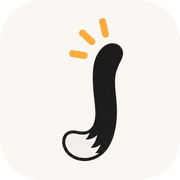
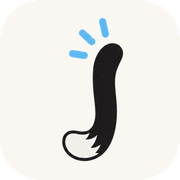
Edição direta nas células e faixa dos projetos em amarelo
- Clique na célula para editar tarefa, observação, prioridade, prazo,
  lembrete e responsável direto na tabela
- Enter ou clicar fora salva; Esc cancela; Shift+Enter quebra linha na observação
- Tarefas de projetos "só visualização" não ficam editáveis
- Atualização automática espera a edição terminar
- Faixa dos projetos no amarelo da marca, com texto e ícones em preto

Changed region(s): [[0.5278, 0.0833, 0.6111, 0.2222], [0.4167, 0.1389, 0.5556, 0.25], [0.3611, 0.2778, 0.5, 0.3333]]

diff --git a/styles.css b/styles.css
@@ -1,7 +1,7 @@
 :root {
-  /* cores da marca: preto do logo, laranja dos traços, creme da ponta da cauda */
+  /* cores da marca: preto do logo, azul claro dos traços, creme da ponta da cauda */
   --brand-ink: #1a1819;
-  --brand-orange: #fbaa3c;
+  --brand-blue: #5bb8f5;
   --brand-cream: #faf7f3;
 
   --bg: var(--brand-cream);
@@ -9,10 +9,10 @@
   --text: var(--brand-ink);
   --muted: #6e6966;
   --border: #ebe5dd;
-  --accent: var(--brand-orange);
-  --accent-hover: #f29a1f;
+  --accent: var(--brand-blue);
+  --accent-hover: #3fa6ec;
   --accent-text: var(--brand-ink);
-  --accent-ink: #9a5b00;      /* laranja escuro: texto laranja legível no fundo claro */
+  --accent-ink: #1667a3;      /* azul escuro: texto azul legível no fundo claro */
   --done-bg: #e8f5ec;
   --done-text: #1f7a3d;
   --late-bg: #fdecec;
@@ -32,10 +32,10 @@
     --text: #f0ece6;
     --muted: #a39d97;
     --border: #33302f;
-    --accent: var(--brand-orange);
-    --accent-hover: #fcb85a;
+    --accent: var(--brand-blue);
+    --accent-hover: #82c9f7;
     --accent-text: var(--brand-ink);
-    --accent-ink: var(--brand-orange);
+    --accent-ink: var(--brand-blue);
     --done-bg: #16291d;
     --done-text: #6ee79a;
     --late-bg: #301a1a;
@@ -53,10 +53,10 @@
   --text: #f0ece6;
   --muted: #a39d97;
   --border: #33302f;
-  --accent: var(--brand-orange);
-  --accent-hover: #fcb85a;
+  --accent: var(--brand-blue);
+  --accent-hover: #82c9f7;
   --accent-text: var(--brand-ink);
-  --accent-ink: var(--brand-orange);
+  --accent-ink: var(--brand-blue);
   --done-bg: #16291d;
   --done-text: #6ee79a;
   --late-bg: #301a1a;
@@ -264,14 +264,15 @@ tr.paused td.actions { opacity: 1; }
 .actions { text-align: right; white-space: nowrap; }
 
 /* faixa do projeto */
-/* faixa do projeto no amarelo da marca; texto e ícones no preto da marca (legíveis nos dois temas) */
-tr.proj-row td { background: var(--brand-orange); color: var(--brand-ink); padding: 6px 10px; }
-tbody tr.proj-row:hover td { background: var(--brand-orange); }
+/* faixa do projeto: fundo levemente azulado + borda azul à esquerda (discreto nos dois temas) */
+tr.proj-row td { background: color-mix(in srgb, var(--brand-blue) 12%, var(--surface)); color: var(--text); padding: 6px 10px; }
+tbody tr.proj-row:hover td { background: color-mix(in srgb, var(--brand-blue) 18%, var(--surface)); }
+tr.proj-row td:first-child { box-shadow: inset 4px 0 0 var(--brand-blue); }
 tr.proj-row .toggle,
-tr.proj-row button.icon { color: var(--brand-ink); }
-tr.proj-row button.icon:hover { background: rgba(26, 24, 25, .12); color: var(--brand-ink); }
-tr.proj-row .badge { background: rgba(255, 255, 255, .45); color: var(--brand-ink); }
-tr.proj-row .proj-count { background: rgba(255, 255, 255, .6); color: var(--brand-ink); }
+tr.proj-row button.icon { color: var(--muted); }
+tr.proj-row button.icon:hover { background: var(--badge-bg); color: var(--text); }
+tr.proj-row .badge { background: var(--surface); color: var(--muted); }
+tr.proj-row .proj-count { background: var(--brand-blue); color: var(--brand-ink); }
 tr.proj-row:not(:first-child) td { border-top: 6px solid var(--bg); }
 .proj-head { display: flex; align-items: center; gap: 6px; }
 .proj-name { font-weight: 600; }
